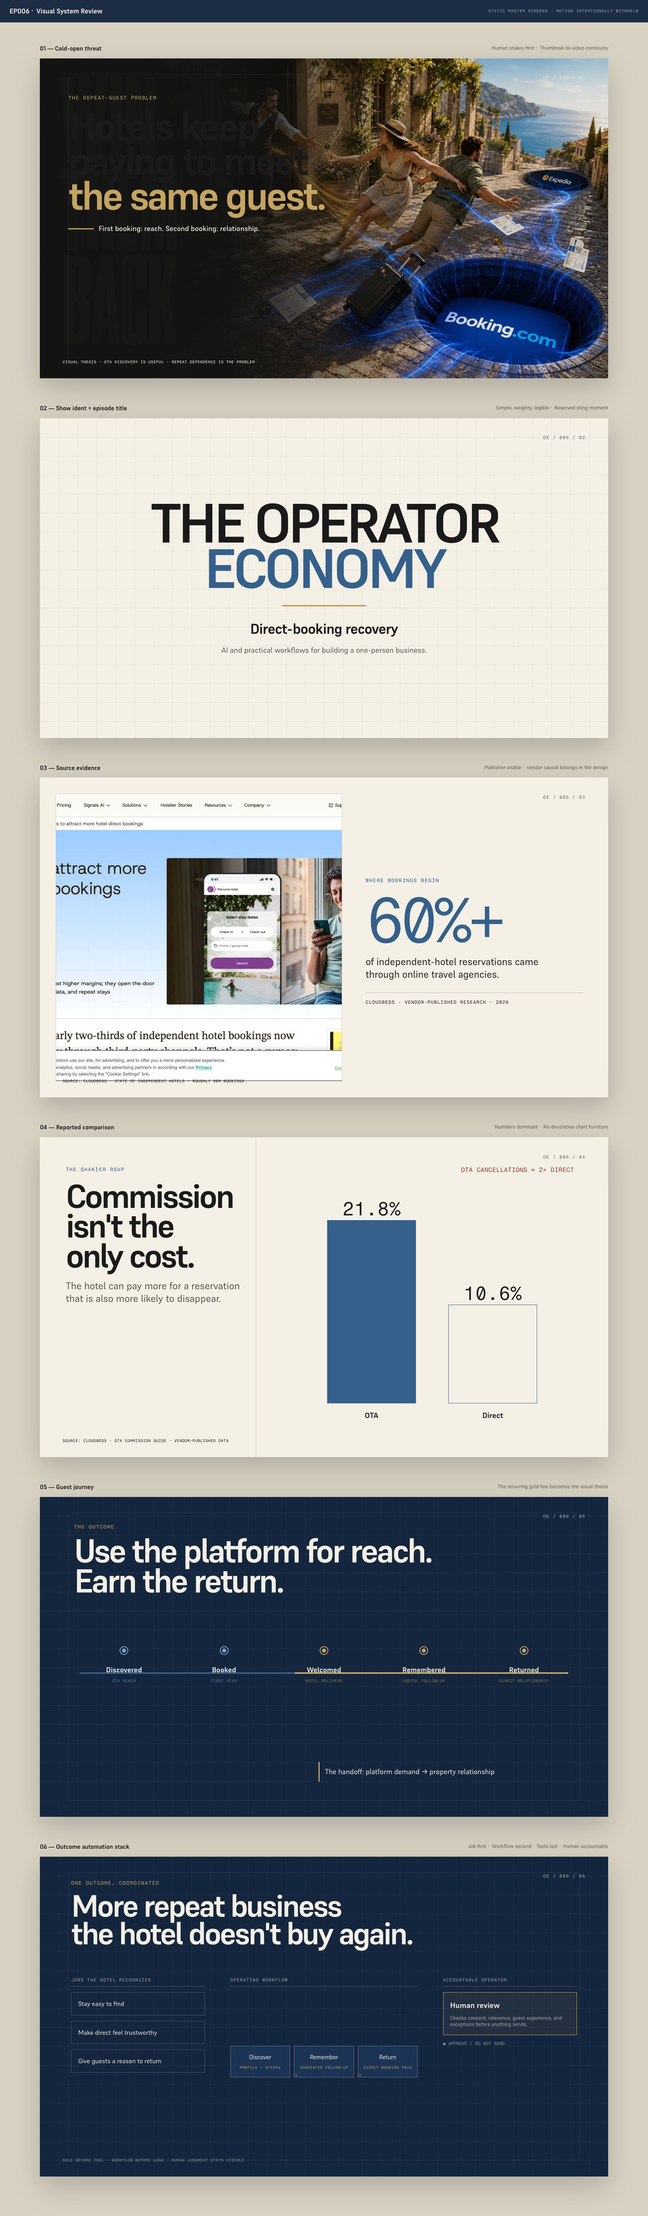
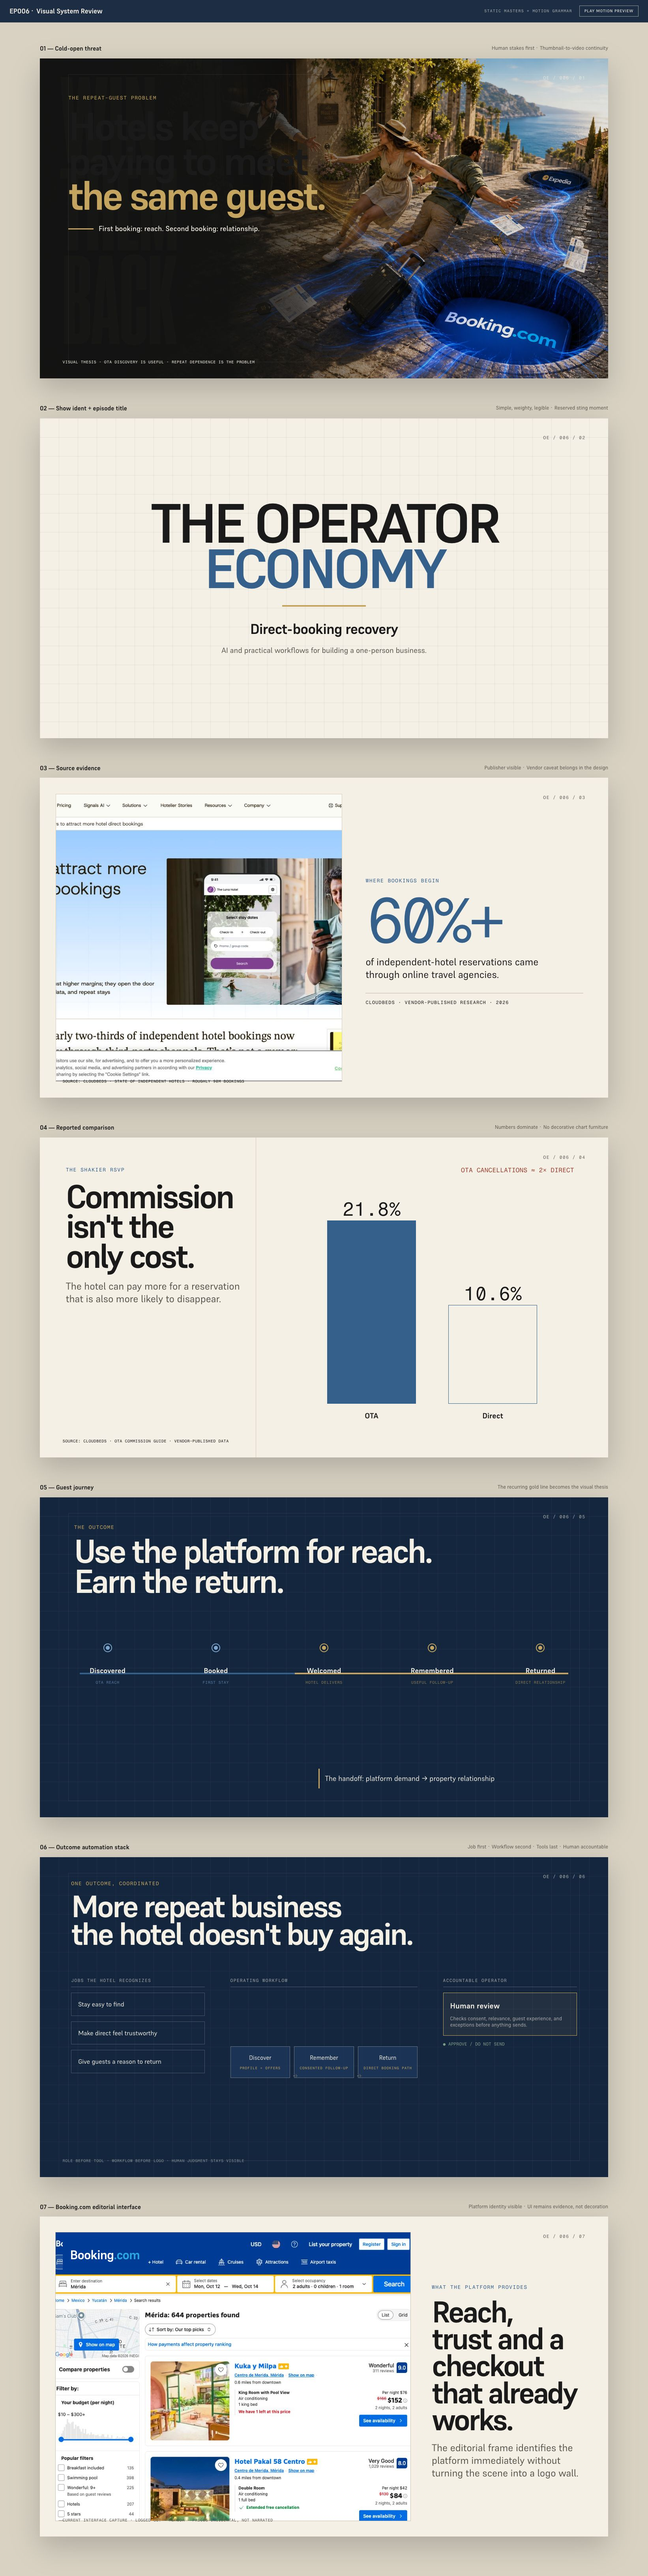
Animate EP006 visual system preview

diff --git a/studio/originate/direct-booking-recovery/VISUAL-SYSTEM-REVIEW.html b/studio/originate/direct-booking-recovery/VISUAL-SYSTEM-REVIEW.html
@@ -9,6 +9,7 @@
     :root{--navy:#14263e;--blue:#35608c;--paper:#f5f0e6;--ink:#1a1a1a;--gold:#c4a45f;--brick:#9b3e2e;--sage:#7b9e87}
     *{box-sizing:border-box} body{margin:0;background:#d9d2c3;color:var(--ink);font-family:var(--font-sans,Arial,sans-serif)}
     header{position:sticky;top:0;z-index:30;display:flex;align-items:center;justify-content:space-between;padding:14px 24px;background:rgba(20,38,62,.96);color:var(--paper);border-bottom:1px solid rgba(255,255,255,.18)}
+    .header-actions{display:flex;align-items:center;gap:18px}.play{border:1px solid rgba(245,240,230,.55);background:transparent;color:var(--paper);padding:8px 12px;font:500 10px/1 var(--font-sans,Arial,sans-serif);letter-spacing:.09em;text-transform:uppercase;cursor:pointer}.play:hover,.play:focus-visible{border-color:var(--gold);color:var(--gold);outline:none}
     header strong{font-size:17px;letter-spacing:-.01em} header span,.kicker,.source,.tag,.node small,.screen-no{font-family:var(--font-mono,monospace);text-transform:uppercase;letter-spacing:.1em}
     header span{font-size:10px;color:rgba(245,240,230,.65)} main{display:grid;gap:64px;padding:54px 20px 100px}
     .review{width:min(1440px,100%);margin:auto}.caption{display:flex;justify-content:space-between;gap:24px;margin:0 0 12px;font-size:13px}.caption b{font-size:15px}.caption span{color:#58544d}
@@ -32,15 +33,21 @@
     .chart{display:grid;grid-template-columns:38% 62%;background:var(--paper)}.chart-copy{padding:13% 7% 9% 12%}.chart-copy .kicker{color:var(--blue);margin-bottom:20px}.chart-copy h2{font-size:clamp(42px,5.2vw,84px)}.chart-copy p{margin-top:22px;color:#555048}.bars{display:flex;align-items:end;justify-content:center;gap:11%;padding:11% 8% 10%;border-left:1px solid #d3c9b5}.bar-wrap{height:82%;width:30%;display:flex;flex-direction:column;justify-content:end;align-items:center}.bar{position:relative;width:100%;border:1px solid var(--blue);background:var(--blue);height:100%}.bar.direct{height:49%;background:transparent}.value{position:absolute;left:50%;top:-54px;transform:translateX(-50%);font:400 clamp(25px,3vw,48px)/1 var(--font-mono,monospace)}.bar-label{margin-top:15px;font-size:clamp(11px,1.2vw,19px);font-weight:700}.ratio{position:absolute;right:6%;top:9%;font:400 clamp(12px,1vw,16px)/1.2 var(--font-mono,monospace);color:var(--brick);text-transform:uppercase}
     /* 05 journey */
     .journey{color:var(--paper);background:var(--navy)}.journey:before,.stack:before{content:"";position:absolute;inset:0;background-image:linear-gradient(rgba(245,240,230,.05) 1px,transparent 1px),linear-gradient(90deg,rgba(245,240,230,.05) 1px,transparent 1px);background-size:48px 48px}.journey-head{position:absolute;z-index:2;left:6%;top:8%}.journey-head .kicker{color:var(--gold);margin-bottom:14px}.journey h2{font-size:clamp(40px,5.2vw,84px);color:var(--paper)}.route{position:absolute;left:7%;right:7%;top:55%;height:2px;background:rgba(245,240,230,.24)}.route:before{content:"";position:absolute;left:0;top:0;width:44%;height:4px;background:var(--blue);transform:translateY(-1px)}.route:after{content:"";position:absolute;left:44%;right:0;top:0;height:4px;background:var(--gold);transform:translateY(-1px)}
-    .steps{position:absolute;z-index:3;left:6%;right:6%;top:47%;display:grid;grid-template-columns:repeat(5,1fr)}.step{text-align:center}.dot{width:18px;height:18px;margin:auto;border:4px solid var(--navy);outline:2px solid currentColor;background:currentColor;border-radius:50%}.step:nth-child(-n+2){color:#7ba4cf}.step:nth-child(n+3){color:var(--gold)}.step b{display:block;margin-top:25px;color:var(--paper);font-size:clamp(11px,1.15vw,18px)}.step small{display:block;margin-top:7px;font:400 clamp(7px,.65vw,10px)/1.2 var(--font-mono,monospace);letter-spacing:.05em;text-transform:uppercase;opacity:.65}.ownership{position:absolute;left:49%;bottom:11%;padding:10px 14px;border-left:3px solid var(--gold);font-size:clamp(11px,1.1vw,18px)}
+    .steps{position:absolute;z-index:3;left:4%;right:4%;top:46%;display:grid;grid-template-columns:repeat(5,1fr);column-gap:3.5%}.step{text-align:center}.dot{width:18px;height:18px;margin:auto;border:4px solid var(--navy);outline:2px solid currentColor;background:currentColor;border-radius:50%}.step:nth-child(-n+2){color:#7ba4cf}.step:nth-child(n+3){color:var(--gold)}.step b{display:block;margin-top:34px;color:var(--paper);font-size:clamp(11px,1.15vw,18px)}.step small{display:block;margin-top:9px;font:400 clamp(7px,.65vw,10px)/1.2 var(--font-mono,monospace);letter-spacing:.05em;text-transform:uppercase;opacity:.65}.ownership{position:absolute;left:49%;bottom:9%;padding:10px 14px;border-left:3px solid var(--gold);font-size:clamp(11px,1.1vw,18px)}
     /* 06 stack */
     .stack{color:var(--paper);background:var(--navy)}.stack-head{position:absolute;z-index:2;left:5.5%;top:7%}.stack-head .kicker{color:var(--gold);margin-bottom:12px}.stack h2{font-size:clamp(38px,4.8vw,78px);color:var(--paper)}.system{position:absolute;z-index:2;left:5.5%;right:5.5%;top:38%;bottom:12%;display:grid;grid-template-columns:1fr 1.4fr 1fr;gap:5%}.column{position:relative}.column-title{padding-bottom:10px;border-bottom:1px solid rgba(245,240,230,.28);font:400 clamp(8px,.72vw,11px)/1 var(--font-mono,monospace);text-transform:uppercase;letter-spacing:.12em;color:rgba(245,240,230,.62)}
     .job{margin-top:14px;padding:15px 17px;border:1px solid rgba(245,240,230,.24);font-size:clamp(11px,1vw,16px)}.workflow{height:calc(100% - 26px);display:grid;grid-template-columns:repeat(3,1fr);align-items:center;gap:10px}.node{position:relative;padding:16px 10px;border:1px solid rgba(245,240,230,.35);background:rgba(31,58,95,.66);text-align:center;font-size:clamp(10px,.95vw,15px)}.node:not(:last-child):after{content:"→";position:absolute;right:-21px;color:var(--gold)}.node small{display:block;margin-top:6px;color:var(--gold);font-size:clamp(6px,.55vw,9px)}.human{margin-top:14px;border:1px solid var(--gold);padding:17px;background:rgba(196,164,95,.08)}.human b{font-size:clamp(12px,1.2vw,19px)}.human p{font-size:clamp(9px,.82vw,13px);margin-top:8px;color:rgba(245,240,230,.68)}.gate{margin-top:14px;color:var(--sage);font:400 clamp(8px,.7vw,11px)/1.4 var(--font-mono,monospace);text-transform:uppercase}.stack .source{color:rgba(245,240,230,.5)}
-    @media(max-width:800px){main{gap:30px;padding:28px 10px 60px}.caption span{display:none}.safe{display:none}}
+    /* 07 interface capture */
+    .interface{display:grid;grid-template-columns:68% 32%;background:var(--paper)}.browser-shot{position:relative;margin:4%;overflow:hidden;border:1px solid #c9c0ad;background:#fff}.browser-shot img{width:100%;height:100%;object-fit:cover;object-position:top}.booking-logo{position:absolute;left:18px;top:18px;z-index:3;padding:13px 18px;background:#003b95;color:#fff;font-size:clamp(18px,2vw,32px);font-weight:700;letter-spacing:-.04em}.booking-logo i{font-style:normal;color:#28a9e0}.interface-copy{padding:15% 11% 10% 3%;display:flex;flex-direction:column;justify-content:center}.interface-copy .kicker{color:var(--blue);margin-bottom:18px}.interface h2{font-size:clamp(38px,4.7vw,76px)}.interface p{margin-top:20px;color:#575249}.interface .source{left:4%;color:#59544b}
+    /* motion presentation */
+    body.motion-mode{overflow:hidden;background:#0c1623}body.motion-mode header{position:fixed;left:0;right:0}body.motion-mode main{display:block;padding:0}body.motion-mode .review{display:none;position:fixed;inset:55px 0 0;width:100%;max-width:none;margin:0;background:#0c1623}body.motion-mode .review.active{display:grid;place-items:center}body.motion-mode .caption{display:none}body.motion-mode .frame{width:min(100vw,177.78vh);max-height:calc(100vh - 55px);box-shadow:none}
+    body.motion-mode .active .frame{animation:sceneIn .42s ease-out both}body.motion-mode .active .threat:before{animation:slowPush 5.2s ease-out both}body.motion-mode .active .threat-copy{animation:rise .8s .25s both}body.motion-mode .active .ident-lockup{animation:identIn .9s .18s cubic-bezier(.2,.8,.2,1) both}body.motion-mode .active .ident-rule{animation:ruleDraw .7s .8s both}body.motion-mode .active .evidence .doc{animation:docIn .7s .15s both}body.motion-mode .active .evidence h2{animation:numberIn .65s .55s both}body.motion-mode .active .chart .bar{transform-origin:bottom;animation:barBuild 1.05s .45s both}body.motion-mode .active .chart .bar.direct{animation-delay:.68s}body.motion-mode .active .journey .route:before{transform-origin:left;animation:lineDraw 1.1s .45s both}body.motion-mode .active .journey .route:after{transform-origin:left;animation:lineDraw 1.2s 1.35s both}body.motion-mode .active .journey .step{animation:stageIn .45s both}body.motion-mode .active .journey .step:nth-child(1){animation-delay:.4s}body.motion-mode .active .journey .step:nth-child(2){animation-delay:.75s}body.motion-mode .active .journey .step:nth-child(3){animation-delay:1.2s}body.motion-mode .active .journey .step:nth-child(4){animation-delay:1.65s}body.motion-mode .active .journey .step:nth-child(5){animation-delay:2.1s}body.motion-mode .active .stack .job,body.motion-mode .active .stack .node,body.motion-mode .active .stack .human{animation:stageIn .48s both}body.motion-mode .active .stack .node:nth-child(1){animation-delay:.8s}body.motion-mode .active .stack .node:nth-child(2){animation-delay:1.1s}body.motion-mode .active .stack .node:nth-child(3){animation-delay:1.4s}body.motion-mode .active .stack .human{animation-delay:1.8s}body.motion-mode .active .interface .browser-shot{animation:docIn .65s both}body.motion-mode .active .booking-logo{animation:logoDrop .5s .45s both}
+    @keyframes sceneIn{from{opacity:0}to{opacity:1}}@keyframes slowPush{from{transform:scale(1.035)}to{transform:scale(1.085)}}@keyframes rise{from{opacity:0;transform:translateY(26px)}to{opacity:1;transform:none}}@keyframes identIn{from{opacity:0;transform:scale(.92)}to{opacity:1;transform:none}}@keyframes ruleDraw{from{transform:scaleX(0)}to{transform:scaleX(1)}}@keyframes docIn{from{opacity:0;transform:translateX(-34px)}to{opacity:1;transform:none}}@keyframes numberIn{from{opacity:0;transform:translateY(28px)}to{opacity:1;transform:none}}@keyframes barBuild{from{transform:scaleY(0)}to{transform:scaleY(1)}}@keyframes lineDraw{from{transform:translateY(-1px) scaleX(0)}to{transform:translateY(-1px) scaleX(1)}}@keyframes stageIn{from{opacity:0;transform:translateY(16px)}to{opacity:1;transform:none}}@keyframes logoDrop{from{opacity:0;transform:translateY(-18px)}to{opacity:1;transform:none}}
+    @media(max-width:800px){main{gap:30px;padding:28px 10px 60px}.caption span{display:none}.safe{display:none}}@media(prefers-reduced-motion:reduce){*,*:before,*:after{animation-duration:.01ms!important;animation-delay:0ms!important}}
   </style>
 </head>
 <body>
-  <header><strong>EP006 · Visual System Review</strong><span>Static master screens · Motion intentionally withheld</span></header>
+  <header><strong>EP006 · Visual System Review</strong><div class="header-actions"><span>Static masters + motion grammar</span><button class="play" id="play">Play motion preview</button></div></header>
   <main>
     <section class="review"><div class="caption"><b>01 — Cold-open threat</b><span>Human stakes first · Thumbnail-to-video continuity</span></div><article class="frame threat"><div class="safe"></div><div class="screen-no">OE / 006 / 01</div><div class="threat-copy"><div class="kicker">The repeat-guest problem</div><h2>Hotels keep<br>paying to meet<br><em>the same guest.</em></h2><div class="payline"><i></i>First booking: reach. Second booking: relationship.</div></div><div class="source">Visual thesis · OTA discovery is useful · repeat dependence is the problem</div></article></section>
 
@@ -53,6 +60,18 @@
     <section class="review"><div class="caption"><b>05 — Guest journey</b><span>The recurring gold line becomes the visual thesis</span></div><article class="frame journey"><div class="safe"></div><div class="screen-no">OE / 006 / 05</div><div class="journey-head"><div class="kicker">The outcome</div><h2>Use the platform for reach.<br>Earn the return.</h2></div><div class="route"></div><div class="steps"><div class="step"><div class="dot"></div><b>Discovered</b><small>OTA reach</small></div><div class="step"><div class="dot"></div><b>Booked</b><small>First stay</small></div><div class="step"><div class="dot"></div><b>Welcomed</b><small>Hotel delivers</small></div><div class="step"><div class="dot"></div><b>Remembered</b><small>Useful follow-up</small></div><div class="step"><div class="dot"></div><b>Returned</b><small>Direct relationship</small></div></div><div class="ownership">The handoff: platform demand → property relationship</div></article></section>
 
     <section class="review"><div class="caption"><b>06 — Outcome automation stack</b><span>Job first · Workflow second · Tools last · Human accountable</span></div><article class="frame stack"><div class="safe"></div><div class="screen-no">OE / 006 / 06</div><div class="stack-head"><div class="kicker">One outcome, coordinated</div><h2>More repeat business<br>the hotel doesn't buy again.</h2></div><div class="system"><div class="column"><div class="column-title">Jobs the hotel recognizes</div><div class="job">Stay easy to find</div><div class="job">Make direct feel trustworthy</div><div class="job">Give guests a reason to return</div></div><div class="column"><div class="column-title">Operating workflow</div><div class="workflow"><div class="node">Discover<small>profile + offers</small></div><div class="node">Remember<small>consented follow-up</small></div><div class="node">Return<small>direct booking path</small></div></div></div><div class="column"><div class="column-title">Accountable operator</div><div class="human"><b>Human review</b><p>Checks consent, relevance, guest experience, and exceptions before anything sends.</p></div><div class="gate">● approve / do not send</div></div></div><div class="source">Role before tool · Workflow before logo · Human judgment stays visible</div></article></section>
+
+    <section class="review"><div class="caption"><b>07 — Booking.com editorial interface</b><span>Platform identity visible · UI remains evidence, not decoration</span></div><article class="frame interface"><div class="screen-no">OE / 006 / 07</div><div class="browser-shot"><div class="booking-logo">Booking<i>.com</i></div><img src="source_captures/booking-results-merida-2026-10-12.png" alt="Booking.com search results for Merida" /></div><div class="interface-copy"><div class="kicker">What the platform provides</div><h2>Reach, trust and a checkout that already works.</h2><p>The editorial frame identifies the platform immediately without turning the scene into a logo wall.</p></div><div class="source">Current interface capture · logged out · Mérida · prices incidental, not narrated</div></article></section>
   </main>
+  <script>
+    const reviews=[...document.querySelectorAll('.review')];
+    const button=document.querySelector('#play');
+    let timer=null,index=0;
+    function show(i){reviews.forEach((r,n)=>r.classList.toggle('active',n===i))}
+    function stop(){clearInterval(timer);timer=null;document.body.classList.remove('motion-mode');reviews.forEach(r=>r.classList.remove('active'));button.textContent='Play motion preview'}
+    function play(){if(timer){stop();return}document.body.classList.add('motion-mode');button.textContent='Exit preview';index=0;show(index);timer=setInterval(()=>{index=(index+1)%reviews.length;show(index)},4600)}
+    button.addEventListener('click',play);
+    if(new URLSearchParams(location.search).has('motion'))play();
+  </script>
 </body>
 </html>
